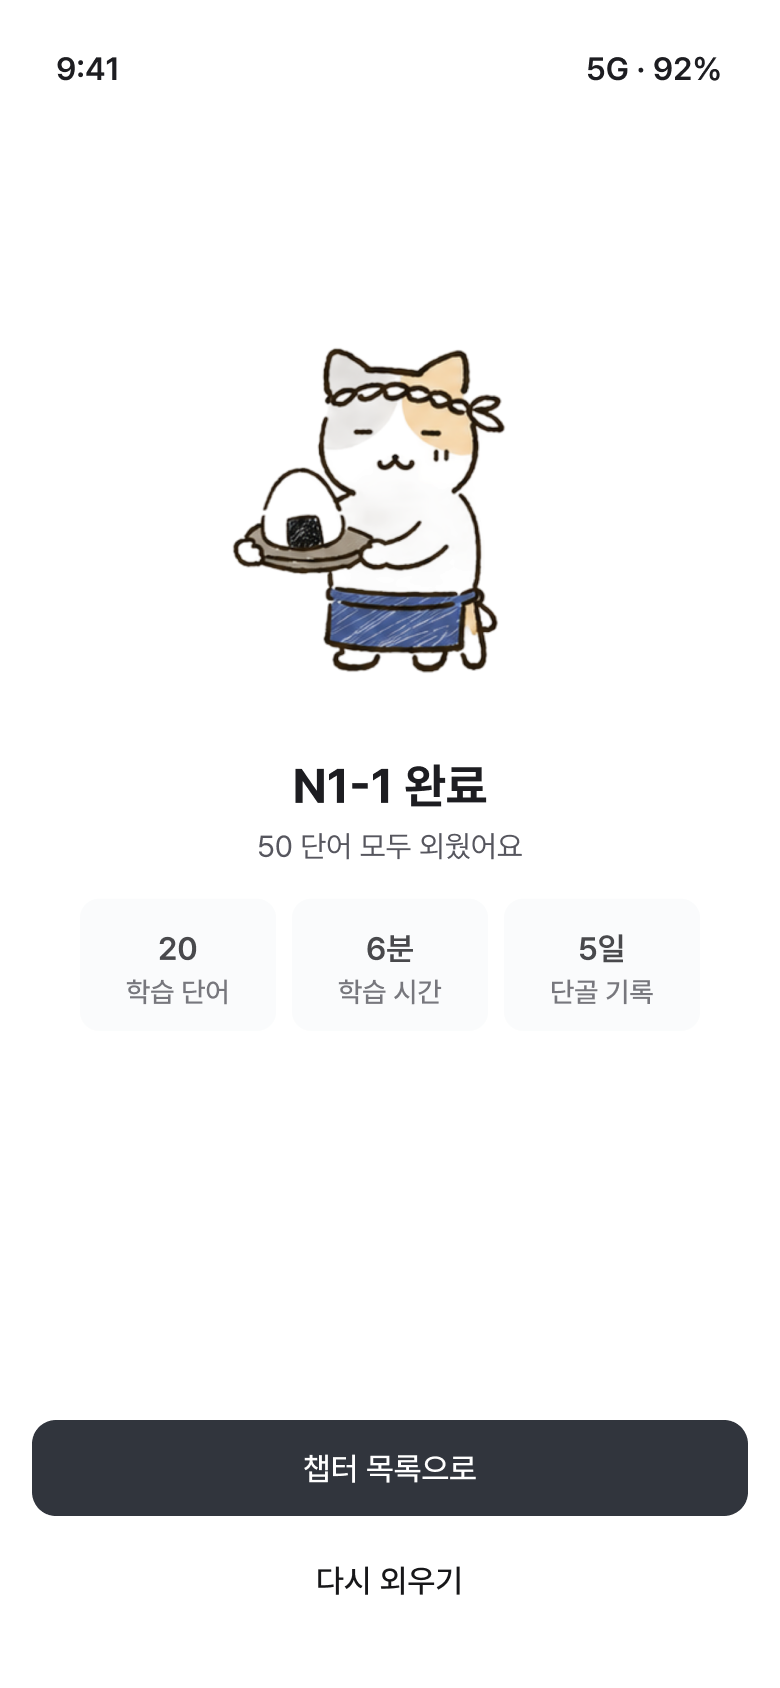
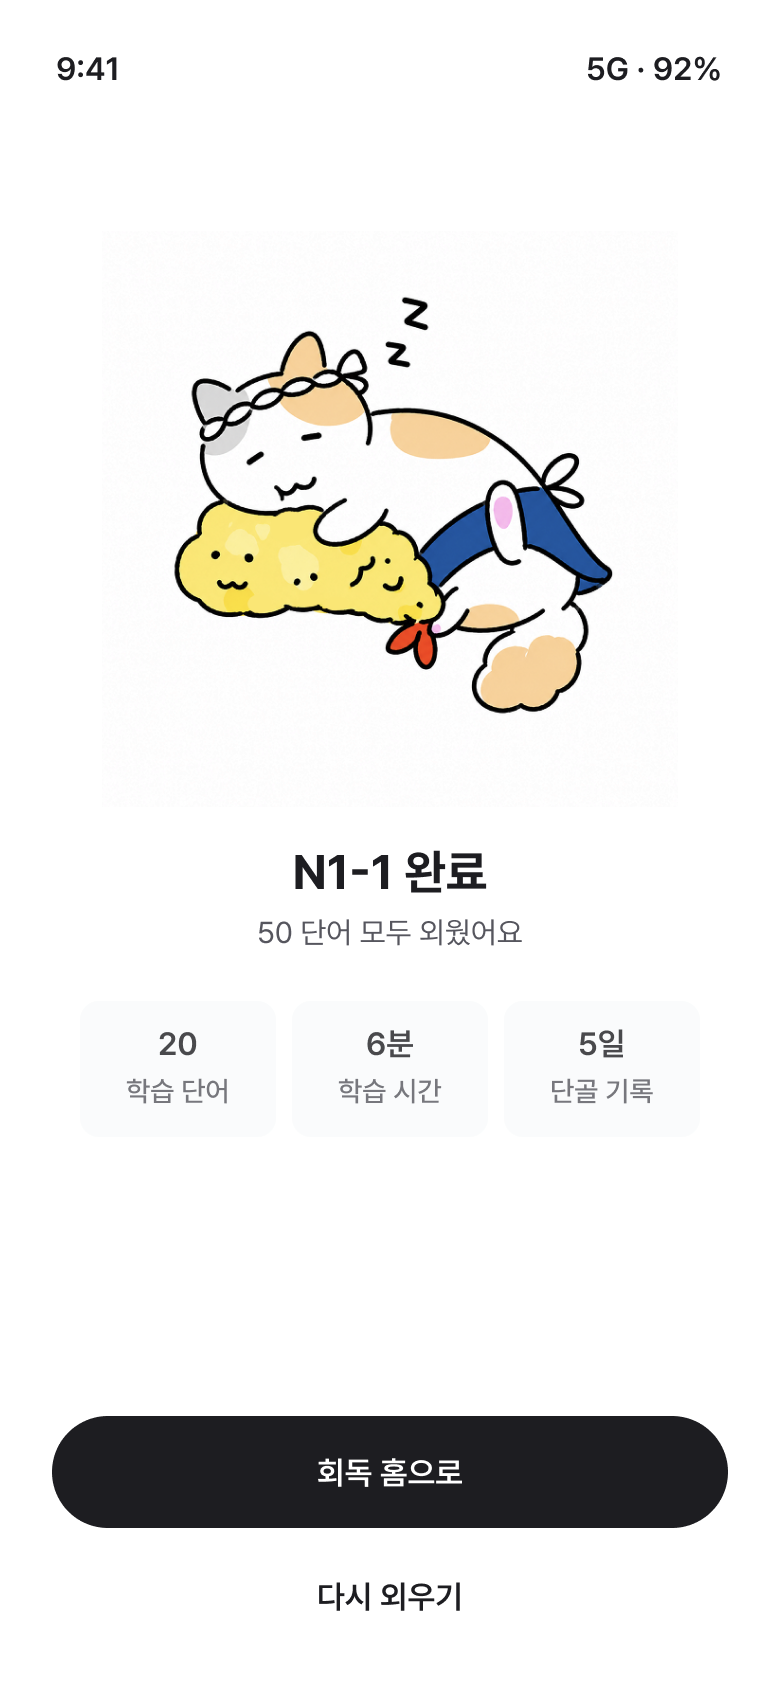
spec: 회독 완료 결과 뷰 최종 반영 (Figma 299-61561)
flow.html s09(회독 완료) 이미지·버튼 최신화.

- screens/09-review-done.png 재익스포트: 신규 일러스트(잠자는 고양이+새우튀김) +
  N1-1 완료 · 3 스탯카드 · 잉크 CTA
- flow.html s09 핫스팟: 1차 CTA "챕터 목록으로" → "회독 홈으로"(→s10),
  "다시 외우기" 핫스팟 추가(→sREV) · 위치 신규 버튼에 정합
- 상단 주석: s09 옛 이미지 경고 해소(최종 반영 완료), s11만 잔여 표기

diff --git a/handoff/redesign-2026-08/prototypes/flow.html b/handoff/redesign-2026-08/prototypes/flow.html
@@ -103,7 +103,7 @@
         <b>알려진 흐름 갭 (검토 포인트)</b>
         <ul>
           <li><b>오늘 학습 복습</b>(틀린 단어) 전용 화면이 없어 학습 카드(02)를 재사용하는 것으로 가정.</li>
-          <li><b style="color:#ff9ea1">회독 완료(s09)·기록(s11)</b>은 다른 Figma 섹션 소속 — 아직 <b>옛 이미지</b>(단골 초록 등). 각 섹션 확정 시 갱신 필요.</li>
+          <li><b style="color:#ff9ea1">기록(s11)</b>은 다른 Figma 섹션 소속 — 아직 <b>옛 이미지</b>. 섹션 확정 시 갱신 필요. <b>회독 완료(s09)</b>는 최종 반영 완료(Figma 299-61561: 이미지·CTA "회독 홈으로").</li>
           <li>공유 영수증(06)의 <b>이미지로 저장·공유</b>는 이 연습에선 무동작. 메뉴·설정 탭, 8월 메뉴판 2depth는 별도.</li>
         </ul>
       </div>
@@ -149,8 +149,8 @@ const S = {
       {k:"단어 상세 · 한자 보기", to:"s12"},
       {k:"✕ 닫기 → 홈", to:"s08", h:{x:2,y:6,w:14,h:5}} ]},
   s09:{img:"09-review-done.png", t:"회독 완료 · N1-1", e:[
-      {k:"챕터 목록으로 → 홈 회독완료", to:"s10", h:{x:6,y:90,w:88,h:6}},
-      {k:"다시 외우기 → 회독 세션", to:"sREV"} ]},
+      {k:"회독 홈으로 → 홈 회독완료", to:"s10", h:{x:6,y:86,w:88,h:7}},
+      {k:"다시 외우기 → 회독 세션", to:"sREV", h:{x:33,y:93,w:34,h:4}} ]},
   s10:{img:"10-home-review-done.png", t:"홈 · 모두 완료", e:[
       {k:"회독하러 가기 → 회독 세션", to:"sREV", h:{x:6,y:63,w:88,h:5}},
       {k:"기록 탭", to:"s11"} ]},
